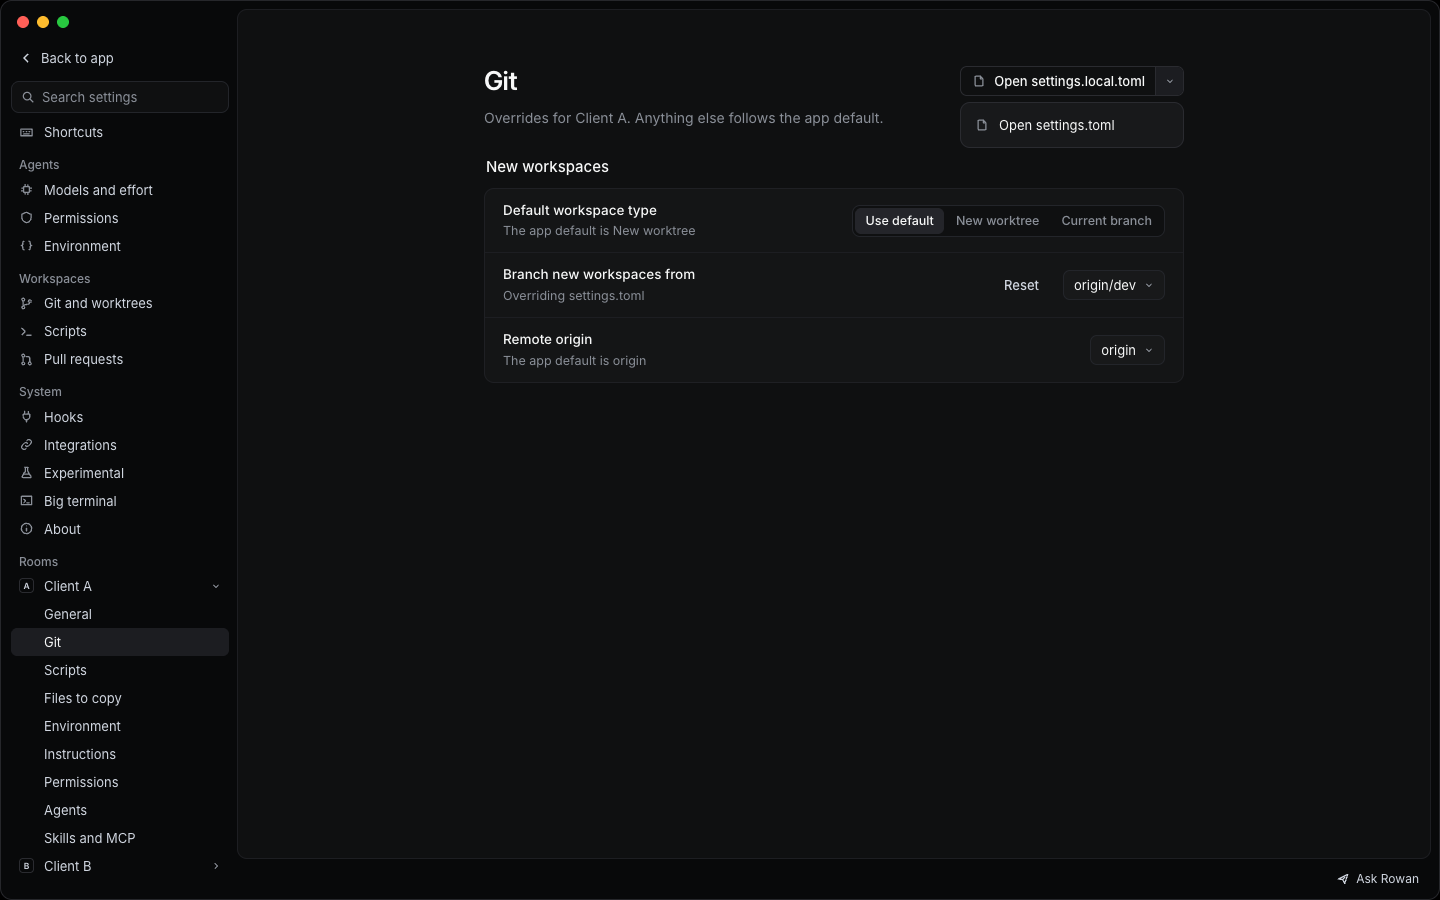
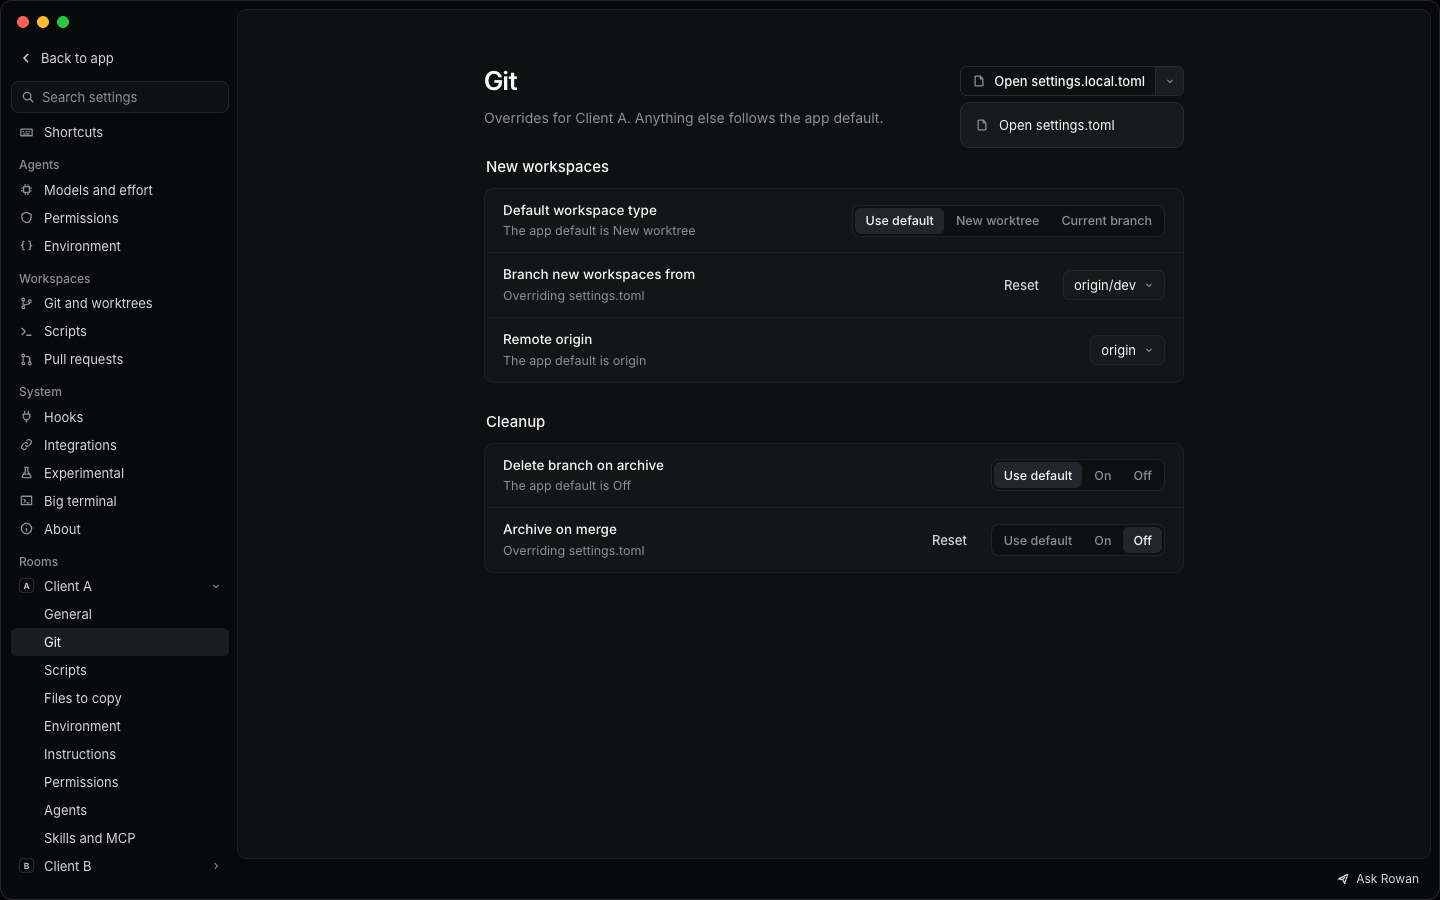
docs(design): add the Cleanup section to a room's Git page (KERNEL-369)

Changed region(s): [[0.3438, 0.4667, 0.4688, 0.6222], [0.6875, 0.56, 0.8125, 0.6222], [0.6875, 0.4978, 0.75, 0.56]]

diff --git a/design/canvas/project/Settings.dc.html b/design/canvas/project/Settings.dc.html
@@ -340,6 +340,10 @@ class Component extends DCLogic {
           seg('rg-mode', 'Default workspace type', ['Use default', 'New worktree', 'Current branch'], 0, 'The app default is New worktree'),
           over(sel('rg-from', 'Branch new workspaces from', ['origin/dev', 'origin/main'])),
           sel('rg-remote', 'Remote origin', ['origin', 'upstream'], 'The app default is origin')
+        ] },
+        { title: 'Cleanup', rows: [
+          seg('rg-delbranch', 'Delete branch on archive', ['Use default', 'On', 'Off'], 0, 'The app default is Off'),
+          over(seg('rg-archmerge', 'Archive on merge', ['Use default', 'On', 'Off'], 2))
         ] }
       ]),
       'r-scripts': roomPage('Scripts', 'Scripts for Client A. A change here is saved in settings.local.toml, so it stays on your Mac.', [

diff --git a/design/canvas/project/SettingsAbout.dc.html b/design/canvas/project/SettingsAbout.dc.html
@@ -340,6 +340,10 @@ class Component extends DCLogic {
           seg('rg-mode', 'Default workspace type', ['Use default', 'New worktree', 'Current branch'], 0, 'The app default is New worktree'),
           over(sel('rg-from', 'Branch new workspaces from', ['origin/dev', 'origin/main'])),
           sel('rg-remote', 'Remote origin', ['origin', 'upstream'], 'The app default is origin')
+        ] },
+        { title: 'Cleanup', rows: [
+          seg('rg-delbranch', 'Delete branch on archive', ['Use default', 'On', 'Off'], 0, 'The app default is Off'),
+          over(seg('rg-archmerge', 'Archive on merge', ['Use default', 'On', 'Off'], 2))
         ] }
       ]),
       'r-scripts': roomPage('Scripts', 'Scripts for Client A. A change here is saved in settings.local.toml, so it stays on your Mac.', [

diff --git a/design/canvas/project/SettingsAccount.dc.html b/design/canvas/project/SettingsAccount.dc.html
@@ -340,6 +340,10 @@ class Component extends DCLogic {
           seg('rg-mode', 'Default workspace type', ['Use default', 'New worktree', 'Current branch'], 0, 'The app default is New worktree'),
           over(sel('rg-from', 'Branch new workspaces from', ['origin/dev', 'origin/main'])),
           sel('rg-remote', 'Remote origin', ['origin', 'upstream'], 'The app default is origin')
+        ] },
+        { title: 'Cleanup', rows: [
+          seg('rg-delbranch', 'Delete branch on archive', ['Use default', 'On', 'Off'], 0, 'The app default is Off'),
+          over(seg('rg-archmerge', 'Archive on merge', ['Use default', 'On', 'Off'], 2))
         ] }
       ]),
       'r-scripts': roomPage('Scripts', 'Scripts for Client A. A change here is saved in settings.local.toml, so it stays on your Mac.', [

diff --git a/design/canvas/project/SettingsAppearance.dc.html b/design/canvas/project/SettingsAppearance.dc.html
@@ -340,6 +340,10 @@ class Component extends DCLogic {
           seg('rg-mode', 'Default workspace type', ['Use default', 'New worktree', 'Current branch'], 0, 'The app default is New worktree'),
           over(sel('rg-from', 'Branch new workspaces from', ['origin/dev', 'origin/main'])),
           sel('rg-remote', 'Remote origin', ['origin', 'upstream'], 'The app default is origin')
+        ] },
+        { title: 'Cleanup', rows: [
+          seg('rg-delbranch', 'Delete branch on archive', ['Use default', 'On', 'Off'], 0, 'The app default is Off'),
+          over(seg('rg-archmerge', 'Archive on merge', ['Use default', 'On', 'Off'], 2))
         ] }
       ]),
       'r-scripts': roomPage('Scripts', 'Scripts for Client A. A change here is saved in settings.local.toml, so it stays on your Mac.', [

diff --git a/design/canvas/project/SettingsBigTerminal.dc.html b/design/canvas/project/SettingsBigTerminal.dc.html
@@ -340,6 +340,10 @@ class Component extends DCLogic {
           seg('rg-mode', 'Default workspace type', ['Use default', 'New worktree', 'Current branch'], 0, 'The app default is New worktree'),
           over(sel('rg-from', 'Branch new workspaces from', ['origin/dev', 'origin/main'])),
           sel('rg-remote', 'Remote origin', ['origin', 'upstream'], 'The app default is origin')
+        ] },
+        { title: 'Cleanup', rows: [
+          seg('rg-delbranch', 'Delete branch on archive', ['Use default', 'On', 'Off'], 0, 'The app default is Off'),
+          over(seg('rg-archmerge', 'Archive on merge', ['Use default', 'On', 'Off'], 2))
         ] }
       ]),
       'r-scripts': roomPage('Scripts', 'Scripts for Client A. A change here is saved in settings.local.toml, so it stays on your Mac.', [

diff --git a/design/canvas/project/SettingsEnvironment.dc.html b/design/canvas/project/SettingsEnvironment.dc.html
@@ -340,6 +340,10 @@ class Component extends DCLogic {
           seg('rg-mode', 'Default workspace type', ['Use default', 'New worktree', 'Current branch'], 0, 'The app default is New worktree'),
           over(sel('rg-from', 'Branch new workspaces from', ['origin/dev', 'origin/main'])),
           sel('rg-remote', 'Remote origin', ['origin', 'upstream'], 'The app default is origin')
+        ] },
+        { title: 'Cleanup', rows: [
+          seg('rg-delbranch', 'Delete branch on archive', ['Use default', 'On', 'Off'], 0, 'The app default is Off'),
+          over(seg('rg-archmerge', 'Archive on merge', ['Use default', 'On', 'Off'], 2))
         ] }
       ]),
       'r-scripts': roomPage('Scripts', 'Scripts for Client A. A change here is saved in settings.local.toml, so it stays on your Mac.', [

diff --git a/design/canvas/project/SettingsEnvironmentAdd.dc.html b/design/canvas/project/SettingsEnvironmentAdd.dc.html
@@ -340,6 +340,10 @@ class Component extends DCLogic {
           seg('rg-mode', 'Default workspace type', ['Use default', 'New worktree', 'Current branch'], 0, 'The app default is New worktree'),
           over(sel('rg-from', 'Branch new workspaces from', ['origin/dev', 'origin/main'])),
           sel('rg-remote', 'Remote origin', ['origin', 'upstream'], 'The app default is origin')
+        ] },
+        { title: 'Cleanup', rows: [
+          seg('rg-delbranch', 'Delete branch on archive', ['Use default', 'On', 'Off'], 0, 'The app default is Off'),
+          over(seg('rg-archmerge', 'Archive on merge', ['Use default', 'On', 'Off'], 2))
         ] }
       ]),
       'r-scripts': roomPage('Scripts', 'Scripts for Client A. A change here is saved in settings.local.toml, so it stays on your Mac.', [

diff --git a/design/canvas/project/SettingsExperimental.dc.html b/design/canvas/project/SettingsExperimental.dc.html
@@ -340,6 +340,10 @@ class Component extends DCLogic {
           seg('rg-mode', 'Default workspace type', ['Use default', 'New worktree', 'Current branch'], 0, 'The app default is New worktree'),
           over(sel('rg-from', 'Branch new workspaces from', ['origin/dev', 'origin/main'])),
           sel('rg-remote', 'Remote origin', ['origin', 'upstream'], 'The app default is origin')
+        ] },
+        { title: 'Cleanup', rows: [
+          seg('rg-delbranch', 'Delete branch on archive', ['Use default', 'On', 'Off'], 0, 'The app default is Off'),
+          over(seg('rg-archmerge', 'Archive on merge', ['Use default', 'On', 'Off'], 2))
         ] }
       ]),
       'r-scripts': roomPage('Scripts', 'Scripts for Client A. A change here is saved in settings.local.toml, so it stays on your Mac.', [

diff --git a/design/canvas/project/SettingsFiles.dc.html b/design/canvas/project/SettingsFiles.dc.html
@@ -340,6 +340,10 @@ class Component extends DCLogic {
           seg('rg-mode', 'Default workspace type', ['Use default', 'New worktree', 'Current branch'], 0, 'The app default is New worktree'),
           over(sel('rg-from', 'Branch new workspaces from', ['origin/dev', 'origin/main'])),
           sel('rg-remote', 'Remote origin', ['origin', 'upstream'], 'The app default is origin')
+        ] },
+        { title: 'Cleanup', rows: [
+          seg('rg-delbranch', 'Delete branch on archive', ['Use default', 'On', 'Off'], 0, 'The app default is Off'),
+          over(seg('rg-archmerge', 'Archive on merge', ['Use default', 'On', 'Off'], 2))
         ] }
       ]),
       'r-scripts': roomPage('Scripts', 'Scripts for Client A. A change here is saved in settings.local.toml, so it stays on your Mac.', [

diff --git a/design/canvas/project/SettingsGit.dc.html b/design/canvas/project/SettingsGit.dc.html
@@ -340,6 +340,10 @@ class Component extends DCLogic {
           seg('rg-mode', 'Default workspace type', ['Use default', 'New worktree', 'Current branch'], 0, 'The app default is New worktree'),
           over(sel('rg-from', 'Branch new workspaces from', ['origin/dev', 'origin/main'])),
           sel('rg-remote', 'Remote origin', ['origin', 'upstream'], 'The app default is origin')
+        ] },
+        { title: 'Cleanup', rows: [
+          seg('rg-delbranch', 'Delete branch on archive', ['Use default', 'On', 'Off'], 0, 'The app default is Off'),
+          over(seg('rg-archmerge', 'Archive on merge', ['Use default', 'On', 'Off'], 2))
         ] }
       ]),
       'r-scripts': roomPage('Scripts', 'Scripts for Client A. A change here is saved in settings.local.toml, so it stays on your Mac.', [

diff --git a/design/canvas/project/SettingsHooks.dc.html b/design/canvas/project/SettingsHooks.dc.html
@@ -340,6 +340,10 @@ class Component extends DCLogic {
           seg('rg-mode', 'Default workspace type', ['Use default', 'New worktree', 'Current branch'], 0, 'The app default is New worktree'),
           over(sel('rg-from', 'Branch new workspaces from', ['origin/dev', 'origin/main'])),
           sel('rg-remote', 'Remote origin', ['origin', 'upstream'], 'The app default is origin')
+        ] },
+        { title: 'Cleanup', rows: [
+          seg('rg-delbranch', 'Delete branch on archive', ['Use default', 'On', 'Off'], 0, 'The app default is Off'),
+          over(seg('rg-archmerge', 'Archive on merge', ['Use default', 'On', 'Off'], 2))
         ] }
       ]),
       'r-scripts': roomPage('Scripts', 'Scripts for Client A. A change here is saved in settings.local.toml, so it stays on your Mac.', [

diff --git a/design/canvas/project/SettingsIntegrations.dc.html b/design/canvas/project/SettingsIntegrations.dc.html
@@ -340,6 +340,10 @@ class Component extends DCLogic {
           seg('rg-mode', 'Default workspace type', ['Use default', 'New worktree', 'Current branch'], 0, 'The app default is New worktree'),
           over(sel('rg-from', 'Branch new workspaces from', ['origin/dev', 'origin/main'])),
           sel('rg-remote', 'Remote origin', ['origin', 'upstream'], 'The app default is origin')
+        ] },
+        { title: 'Cleanup', rows: [
+          seg('rg-delbranch', 'Delete branch on archive', ['Use default', 'On', 'Off'], 0, 'The app default is Off'),
+          over(seg('rg-archmerge', 'Archive on merge', ['Use default', 'On', 'Off'], 2))
         ] }
       ]),
       'r-scripts': roomPage('Scripts', 'Scripts for Client A. A change here is saved in settings.local.toml, so it stays on your Mac.', [
